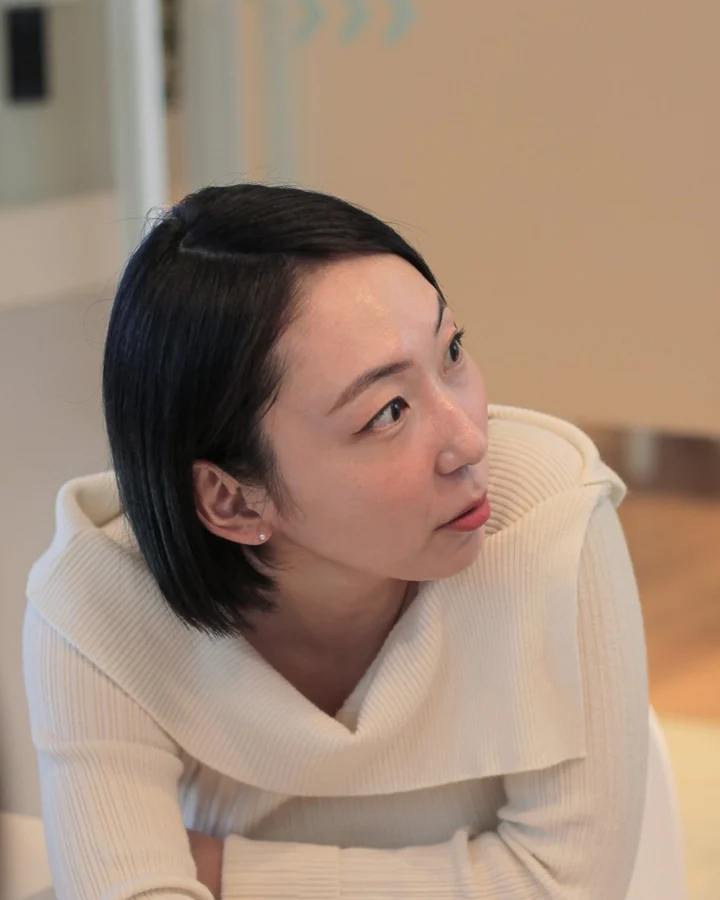
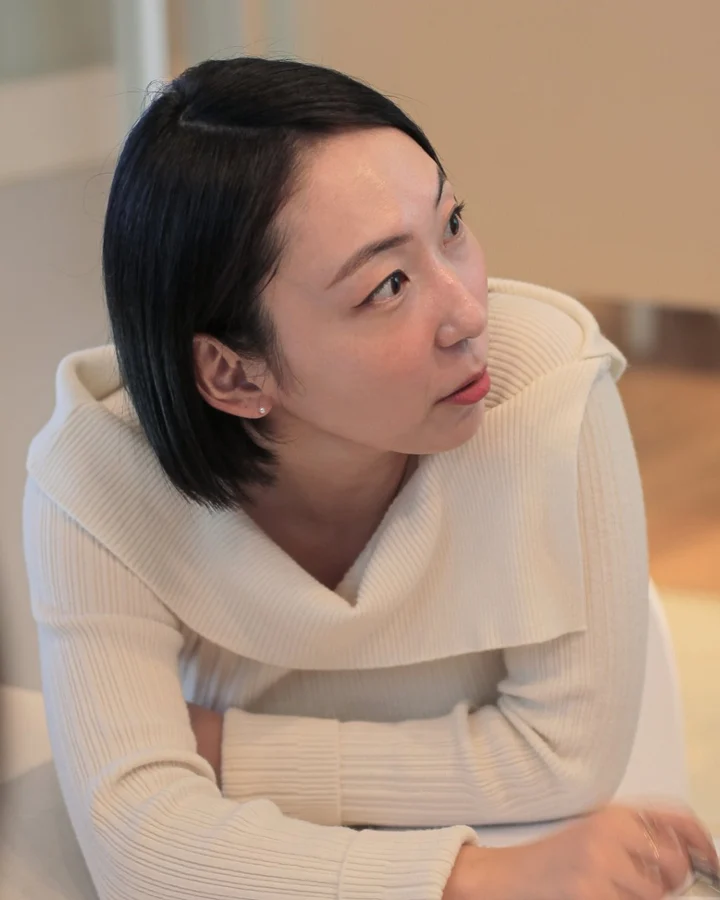
Main About badge: photo framed higher
Claude-Session: https://claude.ai/code/session_0159ALcY6DVunWxBQBDG3xgM

diff --git a/index.html b/index.html
@@ -7,8 +7,8 @@
 <meta name="description" content="사용자의 물음표를 느낌표로 바꾸는 UI/UX 디자이너 김이서의 포트폴리오">
 <link rel="preconnect" href="https://fonts.googleapis.com"><link rel="preconnect" href="https://fonts.gstatic.com" crossorigin>
 <link rel="stylesheet" href="https://cdn.jsdelivr.net/npm/pretendard@1.3.9/dist/web/variable/pretendardvariable.min.css">
-<link rel="stylesheet" href="main/app.css?v=1794755058">
-<link rel="stylesheet" href="main/tone.css?v=1794755058">
+<link rel="stylesheet" href="main/app.css?v=1794755232">
+<link rel="stylesheet" href="main/tone.css?v=1794755232">
 <style>html,body{background:#171717}
 /* hold the page back until the intro stage is up, so a reload never flashes the half-styled chapters */
 #root{opacity:0;transition:opacity .35s ease}html.mp-ready #root{opacity:1}</style>
@@ -38,7 +38,7 @@ setTimeout(function(){document.documentElement.classList.add('mp-ready')},4000);
 </head>
 <body>
 <div id="root"></div>
-<script type="module" src="main/app.js?v=1794755058"></script>
-<script src="main/tone.js?v=1794755058" defer></script>
+<script type="module" src="main/app.js?v=1794755232"></script>
+<script src="main/tone.js?v=1794755232" defer></script>
 </body>
 </html>

diff --git a/main/tone.js b/main/tone.js
@@ -24,7 +24,7 @@
       '<div class="g-mid"><span class="strap" aria-hidden="true"><b>ISEO KIM · UI/UX · ISEO KIM · UI/UX · ISEO KIM · UI/UX · ISEO KIM · UI/UX ·</b></span>' +
         '<div class="badge"><span class="clip" aria-hidden="true"></span>' +
           '<div class="b-top"><span>ME.00</span><span>Access · All areas</span></div>' +
-          '<div class="b-ph"><i style="background-image:url(img/about/badge.webp);background-position:50% 50%"></i></div>' +
+          '<div class="b-ph"><i style="background-image:url(img/about/badge.webp?2);background-position:50% 50%"></i></div>' +
           '<div class="b-nm" aria-label="Iseo Kim">' + line([['iseo', ''], ['kim', '']]) + '</div>' +
           '<div class="b-row"><span>UI/UX Designer</span><span>Seoul</span></div>' +
           '<div class="b-scr"><span class="b-pre">Iseo</span><span class="wv">' + WORDS.map(function (w, i) { return '<span class="wi' + (i ? '' : ' on') + '" aria-label="' + w + '">' + dot(w) + '</span>'; }).join('') + '</span></div>' +
